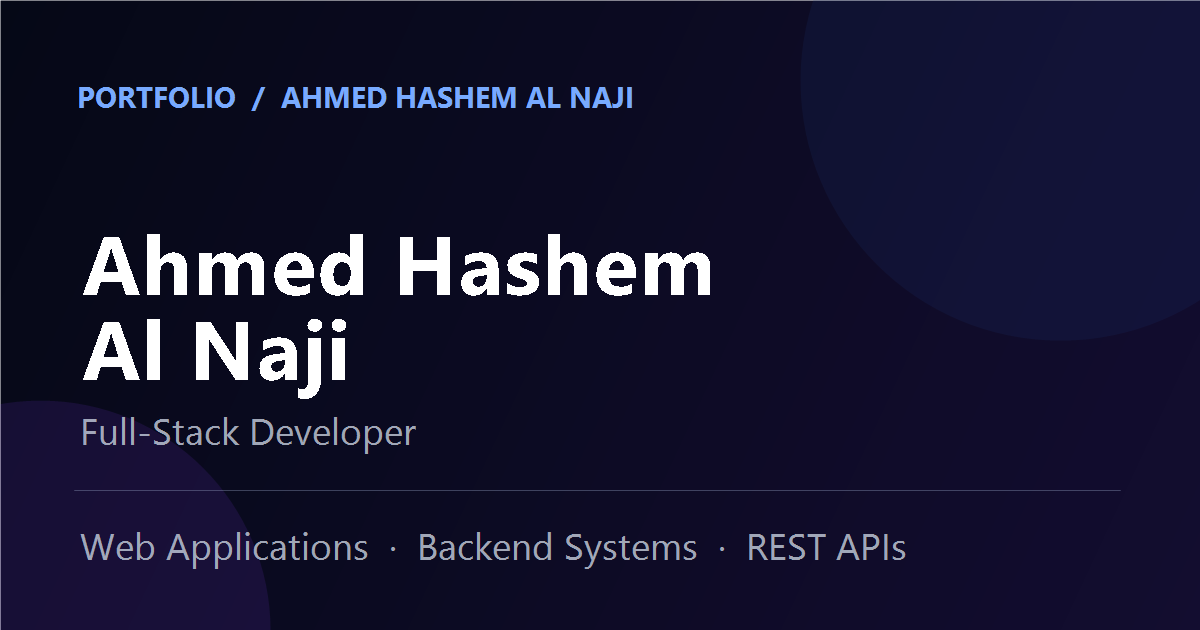
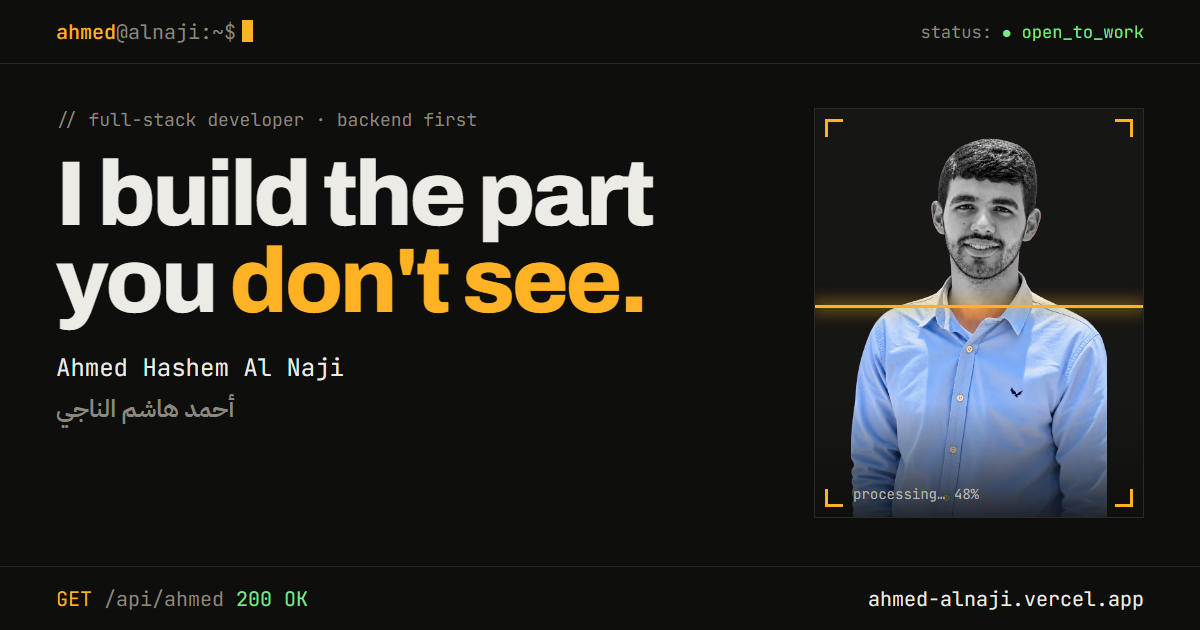
feat: new social share image in the engineer style
- public/og-image.png: 1200x630 card with headline, Arabic name,
  scan-line photo and the /api/ahmed + site URL footer
- scripts/og-image.html + `npm run og` regenerate it with headless
  Chrome/Edge
- Bust social caches with ?v=2; add og:image:alt and Twitter
  title/description

diff --git a/scripts/og-image.html b/scripts/og-image.html
@@ -1,0 +1,83 @@
+<!doctype html>
+<!--
+  Social share card (1200x630). Regenerate public/og-image.png with:
+    npm run og
+-->
+<html lang="en">
+<head>
+<meta charset="utf-8" />
+<link rel="preconnect" href="https://fonts.googleapis.com" />
+<link rel="preconnect" href="https://fonts.gstatic.com" crossorigin />
+<link href="https://fonts.googleapis.com/css2?family=JetBrains+Mono:wght@400;500;700&family=Archivo:wght@800&family=IBM+Plex+Sans+Arabic:wght@600&display=block" rel="stylesheet" />
+<style>
+  :root {
+    --bg: #0e0e0d; --panel: #161614; --line: #2a2a27; --ink: #ecebe6;
+    --muted: #8a887f; --accent: #ffb224; --ok: #7ee787;
+  }
+  * { box-sizing: border-box; margin: 0; padding: 0; }
+  html, body { width: 1200px; height: 630px; overflow: hidden; }
+  body {
+    background: var(--bg); color: var(--ink);
+    font-family: "JetBrains Mono", monospace; -webkit-font-smoothing: antialiased;
+    display: grid; grid-template-rows: 64px 1fr 64px;
+  }
+  .bar { display: flex; align-items: center; justify-content: space-between; padding: 0 56px; border-bottom: 1px solid var(--line); color: var(--muted); font-size: 20px; }
+  .bar b { color: var(--accent); font-weight: 500; }
+  .cursor { display: inline-block; width: 11px; height: 22px; background: var(--accent); vertical-align: -3px; margin-left: 6px; }
+  .bar .status { font-size: 17px; }
+  .bar .status span { color: var(--ok); }
+
+  main { display: grid; grid-template-columns: 1fr 330px; gap: 56px; padding: 44px 56px 0; }
+  .tag { color: var(--muted); font-size: 18px; }
+  h1 { font-family: "Archivo", sans-serif; font-weight: 800; font-size: 92px; line-height: .95; letter-spacing: -.035em; margin-top: 20px; }
+  h1 em { font-style: normal; color: var(--accent); }
+  .name { margin-top: 26px; font-size: 24px; }
+  .ar { font-family: "IBM Plex Sans Arabic", sans-serif; color: var(--muted); font-size: 24px; margin-top: 8px; direction: rtl; text-align: left; unicode-bidi: plaintext; }
+
+  .photo { position: relative; height: 410px; border: 1px solid var(--line); background: var(--panel); overflow: hidden; display: flex; align-items: flex-end; justify-content: center; }
+  .photo .layer { position: absolute; inset: 0; display: flex; align-items: flex-end; justify-content: center; }
+  .photo img { height: 94%; width: auto; }
+  .photo .gray { clip-path: inset(0 0 52% 0); }
+  .photo .gray img { filter: grayscale(1) contrast(1.1); }
+  .scan { position: absolute; left: 0; right: 0; top: 48%; height: 3px; background: var(--accent); box-shadow: 0 0 16px 3px rgba(255,178,36,.55); z-index: 3; }
+  .c { position: absolute; width: 18px; height: 18px; border: 0 solid var(--accent); z-index: 4; }
+  .tl { top: 10px; left: 10px; border-width: 3px 0 0 3px; } .tr { top: 10px; right: 10px; border-width: 3px 3px 0 0; }
+  .bl { bottom: 10px; left: 10px; border-width: 0 0 3px 3px; } .br { bottom: 10px; right: 10px; border-width: 0 3px 3px 0; }
+  .photo::after { content: ""; position: absolute; inset: 0; z-index: 2; background: linear-gradient(transparent 72%, rgba(14,14,13,.85)); }
+  .photo .lbl { position: absolute; left: 38px; bottom: 14px; z-index: 4; font-size: 14px; color: #b9b7ae; }
+
+  footer { display: flex; align-items: center; justify-content: space-between; padding: 0 56px; border-top: 1px solid var(--line); font-size: 20px; color: var(--muted); }
+  footer .m { color: var(--accent); }
+  footer .ok { color: var(--ok); }
+  footer .url { color: var(--ink); }
+</style>
+</head>
+<body>
+  <div class="bar">
+    <span><b>ahmed</b>@alnaji:~$<span class="cursor"></span></span>
+    <span class="status">status: <span>● open_to_work</span></span>
+  </div>
+
+  <main>
+    <div>
+      <p class="tag">// full-stack developer · backend first</p>
+      <h1>I build the part<br />you <em>don't see.</em></h1>
+      <p class="name">Ahmed Hashem Al Naji</p>
+      <p class="ar">أحمد هاشم الناجي</p>
+    </div>
+
+    <div class="photo">
+      <div class="layer"><img src="../src/assets/ahmed-hero-cutout.webp" alt="" /></div>
+      <div class="layer gray"><img src="../src/assets/ahmed-hero-cutout.webp" alt="" /></div>
+      <span class="scan"></span>
+      <span class="c tl"></span><span class="c tr"></span><span class="c bl"></span><span class="c br"></span>
+      <span class="lbl">processing… 48%</span>
+    </div>
+  </main>
+
+  <footer>
+    <span><span class="m">GET</span> /api/ahmed <span class="ok">200 OK</span></span>
+    <span class="url">ahmed-alnaji.vercel.app</span>
+  </footer>
+</body>
+</html>

diff --git a/index.html b/index.html
@@ -21,12 +21,15 @@
       property="og:description"
       content="Explore Ahmed's selected web, backend, and mobile projects, technical skills, and development experience."
     />
-    <meta property="og:image" content="https://ahmed-alnaji.vercel.app/og-image.png" />
+    <meta property="og:image" content="https://ahmed-alnaji.vercel.app/og-image.png?v=2" />
     <meta property="og:image:type" content="image/png" />
     <meta property="og:image:width" content="1200" />
     <meta property="og:image:height" content="630" />
+    <meta property="og:image:alt" content="Ahmed Hashem Al Naji — I build the part you don't see. Full-stack developer, backend first." />
     <meta name="twitter:card" content="summary_large_image" />
-    <meta name="twitter:image" content="https://ahmed-alnaji.vercel.app/og-image.png" />
+    <meta name="twitter:title" content="Ahmed Hashem Al Naji | Full-Stack Developer" />
+    <meta name="twitter:description" content="Backend-first full-stack developer: REST APIs, databases and the React &amp; Flutter apps on top of them." />
+    <meta name="twitter:image" content="https://ahmed-alnaji.vercel.app/og-image.png?v=2" />
     <title>Ahmed Hashem Al Naji | Full-Stack Developer</title>
   </head>
   <body>
